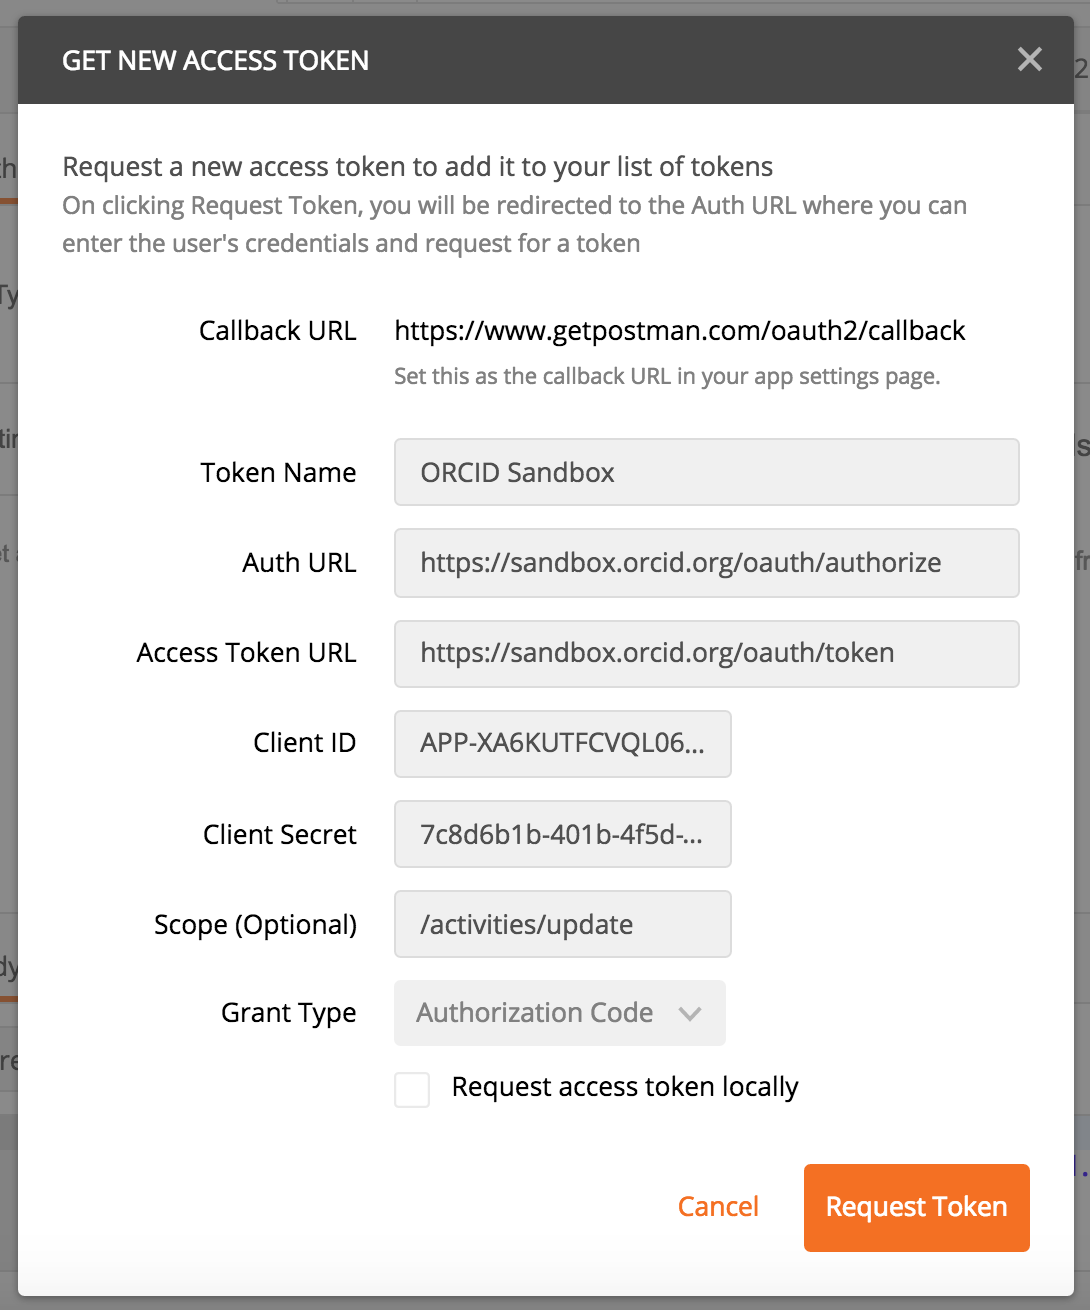
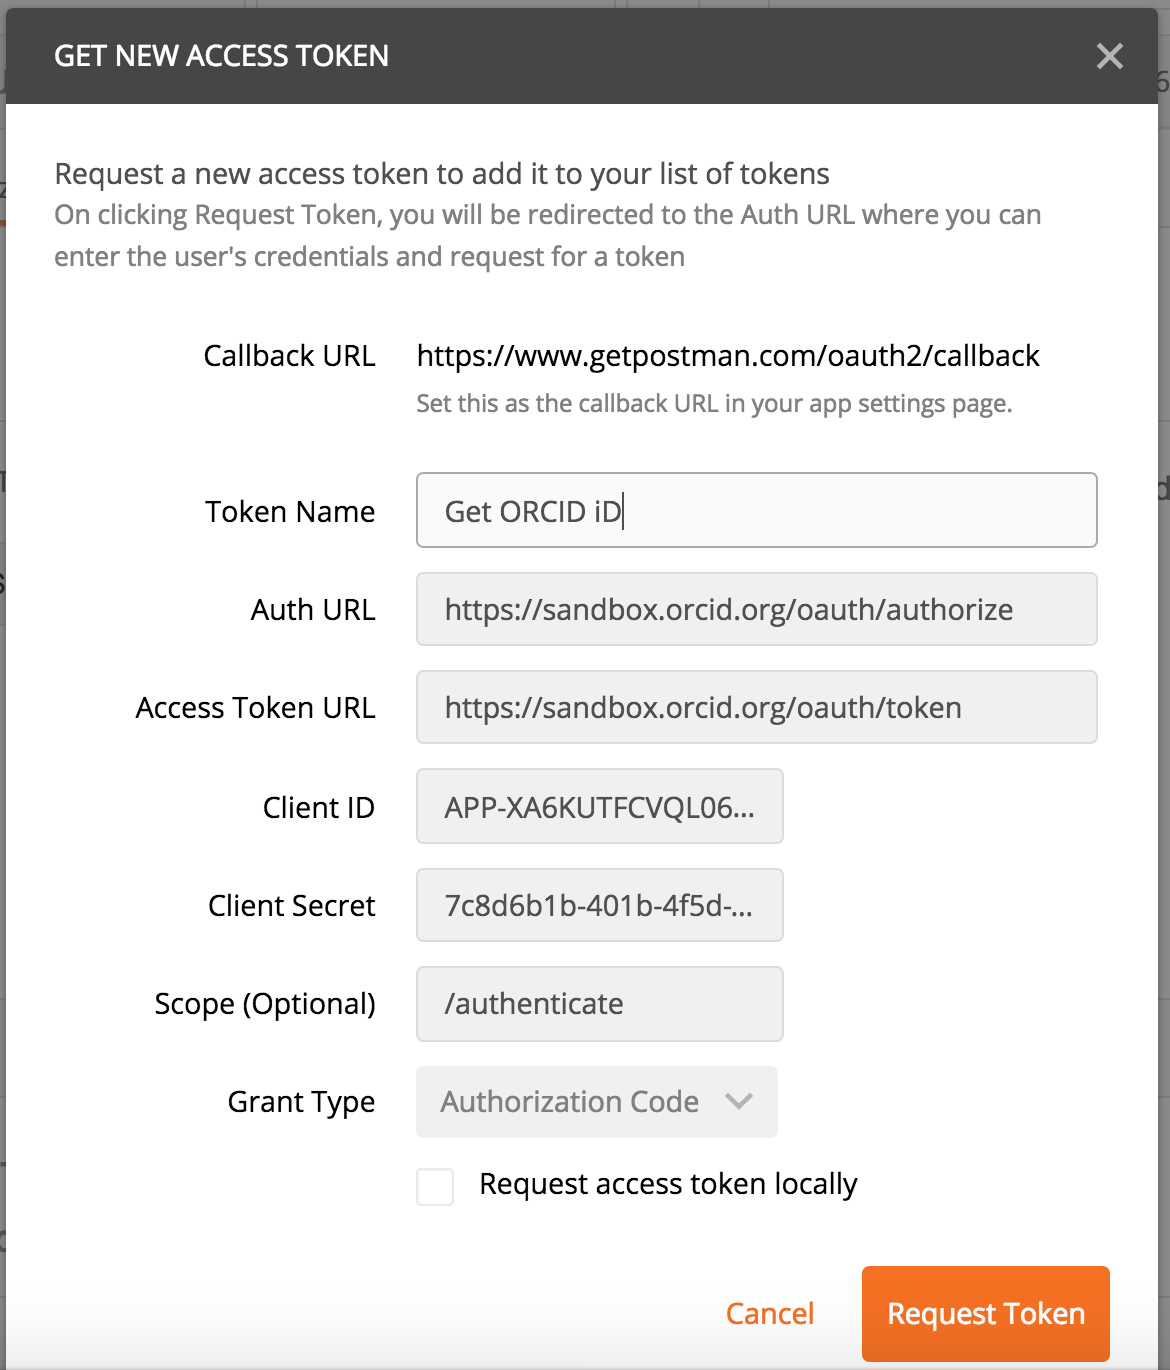
change page names

diff --git a/site/collect/index.html b/site/collect/index.html
@@ -218,8 +218,8 @@
 </li>
       
         <li class="md-nav__item">
-  <a href="#get-an-access-token-authenticated-orcid-id" title="Get an access token &amp; authenticated ORCID iD" class="md-nav__link">
-    Get an access token &amp; authenticated ORCID iD
+  <a href="#get-an-authenticated-orcid-id" title="Get an authenticated ORCID iD" class="md-nav__link">
+    Get an authenticated ORCID iD
   </a>
   
 </li>
@@ -295,8 +295,8 @@
 </li>
       
         <li class="md-nav__item">
-  <a href="#get-an-access-token-authenticated-orcid-id" title="Get an access token &amp; authenticated ORCID iD" class="md-nav__link">
-    Get an access token &amp; authenticated ORCID iD
+  <a href="#get-an-authenticated-orcid-id" title="Get an authenticated ORCID iD" class="md-nav__link">
+    Get an authenticated ORCID iD
   </a>
   
 </li>
@@ -319,19 +319,12 @@
                   <h1>5. AUTHENTICATE iDs</h1>
                 
                 <p>In our first few API requests, we already knew which ORCID iD to use (our own!) and we read/searched public information, which didn't require any permission from the user. </p>
-<p>In practice, you'll need to gather up iDs for researchers whose ORCID records you want to read, update, or associate with records in your own system AND get permission to take certain actions, like adding information to their ORCID records. </p>
-<p>In this section, we'll use the Member API to get an authenticated ORCID iD and record access permission.</p>
+<p>In practice, you'll need to gather up iDs for researchers whose ORCID records your interested in. The best way to do this is to get authenticated iDs from those researchers.</p>
+<p>In this section, we'll use the Sandbox Member API to get an authenticated ORCID iD. This process can also be completed using the Public API.</p>
 <p><strong>Authenticated iDs</strong></p>
 <p>ORCID is about disambiguation,it's important that you get the correct iD for each researcher. The best way to do this is to collect <strong>Authenticated ORCID iDs</strong>, which means that each researcher signs into their ORCID account and authorizes your system to obtain their iD. <a href="https://orcid.org/blog/2017/02/20/whats-so-special-about-signing">Learn more about Authenticated iDs</a></p>
-<p><strong>Record access permission</strong></p>
-<p>Control over access to data in your ORCID record is one of <a href="https://orcid.org/about/what-is-orcid/principles">ORCID's core princples</a>. While you can read public ORCID data without the record owner's involvement, some API actions require permission:</p>
-<ul>
-<li>Get an Authenticated ORCID iD</li>
-<li>Read non-public data (items with privacy set to 'Trusted parties')</li>
-<li>Add/update record data</li>
-</ul>
 <p><strong>OAuth 2.0</strong> </p>
-<p>Getting an Authenticated iD and record access permission from a user involves following <a href="https://oauth.net/2/">OAuth 2.0</a>, an industry-standard protocol for authorization. OAuth allows a user to give a website or application access to account information stored on another site, without giving that site their password. </p>
+<p>Getting an Authenticated iD from a user involves following <a href="https://oauth.net/2/">OAuth 2.0</a>, an industry-standard protocol for authorization. OAuth allows a user to give a website or application access to account information stored on another site, without giving that site their password. </p>
 <p>If you've ever signed into a site using Google or Facebook instead of your credentials for that particular site, you've already used OAuth!</p>
 <p><strong>The OAuth process includes 3 steps:</strong></p>
 <ol>
@@ -348,7 +341,7 @@ client_secret: 7c8d6b1b-401b-4f5d-9b8b-b8108c6e197c
 </code></pre>
 
 <p>(Demo client secret created for this workshop - do not share API client secrets!)</p>
-<h3 id="get-an-access-token-authenticated-orcid-id">Get an access token &amp; authenticated ORCID iD</h3>
+<h3 id="get-an-authenticated-orcid-id">Get an authenticated ORCID iD</h3>
 <p>For this tutorial, we'll use Postman to simulate the steps of an OAuth 2.0 interaction that, in the real world, would be completed by your own custom web application or a vendor system.</p>
 <p>For more details on what's happening behind the scenes, see our <a href="https://members.orcid.org/api/tutorial/get-orcid-id">Basic tutorial: Get an authenticated ORCID iD </a></p>
 <ol>
@@ -368,7 +361,7 @@ client_secret: 7c8d6b1b-401b-4f5d-9b8b-b8108c6e197c
 <tbody>
 <tr>
 <td><strong>Token Name</strong></td>
-<td>ORCID Sandbox</td>
+<td>Get ORCID iD</td>
 </tr>
 <tr>
 <td><strong>Auth URL</strong></td>
@@ -388,7 +381,7 @@ client_secret: 7c8d6b1b-401b-4f5d-9b8b-b8108c6e197c
 </tr>
 <tr>
 <td><strong>Scope</strong></td>
-<td><code>/activities/update</code> <br>This scope allows adding/updating items in the education, employment, funding or works sections of an ORCID record. Other scopes are also available - see full list of <a href="https://members.orcid.org/api/oauth/orcid-scopes">ORCID Scopes</a></td>
+<td><code>/authenticate</code> <br>This scope allows getting a user's authenticated ORCID iD. Other scopes are also available - see full list of <a href="https://members.orcid.org/api/oauth/orcid-scopes">ORCID Scopes</a></td>
 </tr>
 <tr>
 <td><strong>Grant Type</strong></td>
@@ -398,13 +391,14 @@ client_secret: 7c8d6b1b-401b-4f5d-9b8b-b8108c6e197c
 </table>
 <ol>
 <li>Leave <strong>Request access token locally</strong> unchecked and click <strong>Request Token</strong><br>
-<img src="../images/04-2_token-config.png" width="400" alt="Google OAuth Playground exchanging authorization code for access token" /></li>
+<img src="../images/04-2_token-config.png" width="400" alt="Postman config for exchanging authorization code for access token" /></li>
 <li>An ORCID sign-in screen will appear; sign into the Sandbox ORCID account you created earlier.<br>
 <img src="../images/04-2_signin-screen.png" width="400" alt="ORCID Sandbox signin screen" /></li>
-<li>A screen asking you to grant access to your record will appear; click <strong>Authorize</strong><br>
+<li>A screen asking you to authorize ORCID to share your iD with an external application will appear; click <strong>Authorize</strong><br>
 <img src="../images/04-2_oauth-screen.png" width="400" alt="ORCID Sandbox authorization screen" /></li>
-<li>Beneath <strong>Existing Tokens</strong>, click <strong>ORCID Sandbox</strong>. The access token and ORCID iD for the user who signed in will appear at right.<br>
-<img src="../images/04-3_token-response.png" width="600" alt="Google OAuth Playground json response for an access token request" /></li>
+<li>Beneath <strong>Existing Tokens</strong>, click <strong>Get ORCID iD</strong>. The ORCID iD for the user who signed in will appear at right.<br>
+<img src="../images/04-3_token-response.png" width="600" alt="Postman response for an access token request" /><br>
+<em>An Access Token is also generated, however, this token is not valid for any additional API requests.</em></li>
 </ol>
                 
                   

diff --git a/site/connect/index.html b/site/connect/index.html
@@ -223,6 +223,13 @@
     <ul class="md-nav__list" data-md-scrollfix>
       
         <li class="md-nav__item">
+  <a href="#get-an-access-token" title="Get an access token" class="md-nav__link">
+    Get an access token
+  </a>
+  
+</li>
+      
+        <li class="md-nav__item">
   <a href="#add-an-education-affiliation" title="Add an education affiliation" class="md-nav__link">
     Add an education affiliation
   </a>
@@ -288,6 +295,13 @@
     <ul class="md-nav__list" data-md-scrollfix>
       
         <li class="md-nav__item">
+  <a href="#get-an-access-token" title="Get an access token" class="md-nav__link">
+    Get an access token
+  </a>
+  
+</li>
+      
+        <li class="md-nav__item">
   <a href="#add-an-education-affiliation" title="Add an education affiliation" class="md-nav__link">
     Add an education affiliation
   </a>
@@ -318,17 +332,33 @@
                 
                   <h1>6. ADD information</h1>
                 
-                <p>Now that we've got an Access Token, we can use it like a password to take the API actions we requested permission for (in this case, to update Activities). In this section, we'll add an education affiliation to our Sandbox record.</p>
-<h2 id="add-an-education-affiliation">Add an education affiliation</h2>
-<p>Still have that ORCID Sandbox access token saved in Postman? If so, continue with step 1 below. If not, go back and repeat the <a href="../collect/#get-an-access-token-authenticated-orcid-id">Get an access token &amp; authenticated ORCID iD</a> step from the previous section before moving on to the steps below.</p>
+                <p>ORCID member organizations can use the API to add information from their systems, like affiliations, grants and publications, to user's records, making that information visible both to the user and to other systems that rely on ORCID data.</p>
+<p>In this section, we'll use the Member API to add an education affiliation item to our Sandbox record. </p>
+<h2 id="get-an-access-token">Get an access token</h2>
+<p>Before we can add data to an ORCID record, we first need to get permission from the record owner via the same OAuth 2.0 process we used to get an authenticated iD in the previous section. </p>
+<p><em><strong>Why do we need permission?</strong> Control over access to data in your ORCID record is one of <a href="https://orcid.org/about/what-is-orcid/principles">ORCID's core princples</a>. While you can read public data without the record owner's involvement, reading non-public data or making changes to data always requires the record owner's permission.</em> </p>
 <ol>
-<li>In the Postman Builder tab, click the <strong>+</strong> sign at the top of the screen to create a new request.</li>
-<li>Set the request type to <strong>POST</strong>.<br></li>
+<li>In the same Postman request tab that you used in the last section, click <strong>Get New Access Token</strong></li>
+<li>Change <strong>Token Name</strong> to <strong>Update record</strong> and <strong>Scope</strong> to <code>/activites/update</code>. Leave all other fields as they were in the <a href="../collect/#get-an-authenticated-orcid-id">Get an authenticated ORCID iD section</a><br>
+<em><code>/activites/update</code> scope generates a token that can be used to add/update items in the education, employment, funding and works sections of an ORCID record.</em><br> 
+<img src="../images/06-1_token-config.png" width="400" alt="Postman config for exchanging authorization code for access token" /></li>
+<li>Leave <strong>Request access token locally</strong> unchecked and click <strong>Request Token</strong></li>
+<li>An ORCID sign-in screen will appear; sign into the Sandbox ORCID account you created earlier. <em><strong>Note:</strong> If you're already signed into ORCID in the same browser, this step will be skipped.</em><br>
+<img src="../images/04-2_signin-screen.png" width="400" alt="ORCID Sandbox signin screen" /></li>
+<li>A screen asking you to grant permission to update your ORCID record will appear; click <strong>Authorize</strong><br>
+<img src="../images/06-1_oauth-screen.png" width="400" alt="ORCID Sandbox authorization screen" /></li>
+<li>Beneath <strong>Existing Tokens</strong>, click <strong>Update record</strong>. The Access Token for the user who signed in will appear at right.<br>
+<img src="../images/06-1_token-response.png" width="600" alt="Postman response for an access token request" /><br></li>
+</ol>
+<h2 id="add-an-education-affiliation">Add an education affiliation</h2>
+<p>Next, we'll use the access token generated in the previous section to add an education affiliation to our Sandbox ORCID record.</p>
+<ol>
+<li>In the same Postman Builder tab, you were working in to generate the <strong>Update record</strong> access token, set the request type to <strong>POST</strong>.<br></li>
 <li>In the <strong>Request URI</strong> field enter:<br>
 <code>https://api.sandbox.orcid.org/v2.0/[ORCID ID]/education</code><br>
 <em>Replace [ORCID ID] with the iD for your Sandbox record, format XXXX-XXXX-XXXX-XXXX</em><br>
 <img src="../images/06-1_request-uri.png" width="600" alt="Postman request URI config for education affiliation POST request" /></li>
-<li>Click <strong>Authorization</strong>, select the <strong>ORCID Sandbox</strong> token, and set the <strong>Add token to</strong> dropdown to <strong>Header</strong><br>
+<li>Click <strong>Authorization</strong>, select the <strong>Update record</strong> token, and set the <strong>Add token to</strong> dropdown to <strong>Header</strong><br>
 <img src="../images/06-1_authorization.png" width="600" alt="Postman authorization config for education affiliation POST request" /></li>
 <li>Click <strong>Headers</strong> and add the keys and values below (notice that Postman added the access token as a header)</li>
 </ol>

diff --git a/site/sync/index.html b/site/sync/index.html
@@ -318,7 +318,8 @@
                 
                   <h1>7. UPDATE information</h1>
                 
-                <p>In a real-world situation, you may need to update a researcher's affiliation. In this section, we'll update our education affiliation to include an end date.</p>
+                <p>In a real-world situation, you may need to update information that you've added previously, like the dates of a researcher's affiliation with your institution. </p>
+<p>In this section, we'll use the Sandbox Member API to update our education affiliation to include an end date.</p>
 <h2 id="update-an-education-affiliation">Update an education affiliation</h2>
 <ol>
 <li>In the <strong>Response</strong> section from the POST request we just made, click <strong>Headers</strong> and scroll down to <strong>Location</strong>. Copy the 5-character code at the end of the URI - this is the <strong>put-code</strong> for the education affiliation that you added in the previous section.<br>
@@ -328,10 +329,11 @@
 <code>https://api.sandbox.orcid.org/v2.0/[ORCID ID]/education/[PUT CODE]</code><br>
 <em>Replace [ORCID ID] with the iD for your Sandbox record, format XXXX-XXXX-XXXX-XXXX and [PUT CODE] with the put-code for your education affiliation</em><br>
 <img src="../images/06-2_request-uri.png" width="600" alt="Postman request URI configuration for updating an education affiliation" /></li>
-<li>Click <strong>Authorization</strong> and make sure that your ORCID Sandbox token is still selected, and the <strong>Add token to</strong> dropdown is still set to <strong>Header</strong><br></li>
+<li>Click <strong>Authorization</strong> and make sure that your <strong>Update record</strong> token is still selected, and the <strong>Add token to</strong> dropdown is still set to <strong>Header</strong><br>
+<img src="../images/06-1_authorization.png" width="600" alt="Postman authorization config for education affiliation POST request" /></li>
 <li>Click <strong>Headers</strong> and make sure that <code>accept</code> and <code>Content-type</code> are both set to <code>application/vnd.orcid+xml</code><br>
 <img src="../images/06-2_put-headers.png" width="600" alt="Postman header configuration" /></li>
-<li>Click <strong>Body</strong> (the XML for the affiliation you added in the previous step should appear).</li>
+<li>Click <strong>Body</strong>; the XML for the affiliation you added in the previous step should appear.</li>
 <li>Inside the <code>&lt;education:education</code> tag, add <code>put-code="[PUT CODE]"</code><br>
 <em>Replace [PUT CODE] with the put-code for your education affiliation, ex <code>&lt;education:education put-code="26971"</code></em><br>
 <img src="../images/06-2_request-body-1.png" width="600" alt="Postman request body configuration for updating an education affiliation showing where to place put-code" /></li>

diff --git a/docs/add.md b/docs/add.md
@@ -11,7 +11,7 @@ Before we can add data to an ORCID record, we first need to get permission from 
 ***Why do we need permission?** Control over access to data in your ORCID record is one of [ORCID's core princples](https://orcid.org/about/what-is-orcid/principles). While you can read public data without the record owner's involvement, reading non-public data or making changes to data always requires the record owner's permission.* 
 
 1. In the same Postman request tab that you used in the last section, click **Get New Access Token**
-2. Change **Token Name** to **Update record** and **Scope** to ```/activites/update```. Leave all other fields as they were in the [Get an authenticated ORCID iD section](/collect/#get-an-authenticated-orcid-id)<br>
+2. Change **Token Name** to **Update record** and **Scope** to ```/activites/update```. Leave all other fields as they were in the [Get an authenticated ORCID iD section](/authenticate/#get-an-authenticated-orcid-id)<br>
 *```/activites/update``` scope generates a token that can be used to add/update items in the education, employment, funding and works sections of an ORCID record.*<br> 
 <img src="../images/06-1_token-config.png" width="400" alt="Postman config for exchanging authorization code for access token" />
 3. Leave **Request access token locally** unchecked and click **Request Token**
